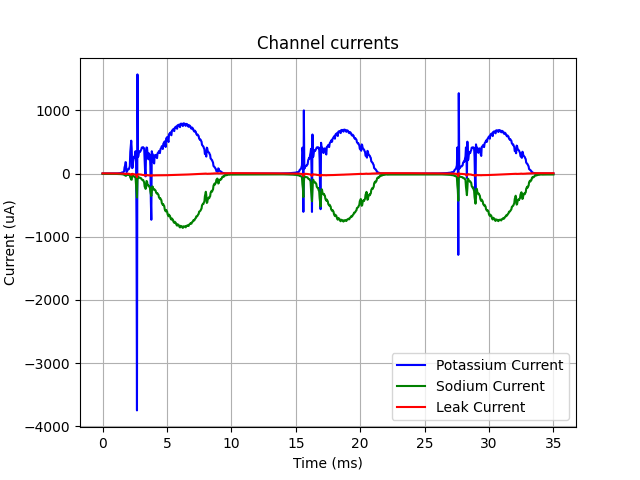
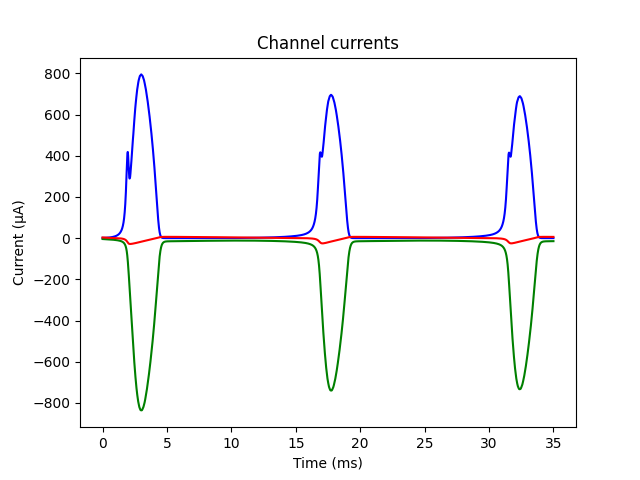
more graphs

diff --git a/HH_model.py b/HH_model.py
@@ -2,9 +2,6 @@ import numpy as np
 import matplotlib.pyplot as plt
 # from scipy.integrate import solve_ivp
 
-# i_na_trace = []       # Trace for graph purposes
-# i_k_trace = []
-# i_leak_trace = []
 class HodgkinHuxley:      # Hodgkin-Huxley model
 
     def __init__(self):        
@@ -22,7 +19,7 @@ class HodgkinHuxley:      # Hodgkin-Huxley model
         self.i_inj = 10.   
 
         self.tmax = 35.   
-        self.t  = np.linspace(0, self.tmax, 1000)
+        self.t  = np.linspace(0, self.tmax, 100000)
 
     def alpha_n(self,v):
 
@@ -31,12 +28,10 @@ class HodgkinHuxley:      # Hodgkin-Huxley model
         if nom == 0 and denom == 0 :
             return 0.1
 
-        # return (0.22 * np.exp( (v-30.)/ 26.5))      # Research paper equation
         return (nom / denom)                         # Wiki equation(original HH)
 
     def beta_n(self,v):
 
-        # return (0.22 * np.exp(- (v-30.)/ 26.5))     # Research paper equation
         return (0.125 * np.exp(- v/ 80.))            # Wiki equation(original HH)
 
     def alpha_m(self,v):
@@ -87,7 +82,6 @@ class HodgkinHuxley:      # Hodgkin-Huxley model
     #                 spikes += 1
     #         firing_rate.append(spikes/self.tmax)
 
-
     #     for i in range(len(self.var_inj)):
     #         if firing_rate[i] ==0:
     #             self.max_I.append(self.var_inj[i])          # threshold input current.
@@ -95,50 +89,45 @@ class HodgkinHuxley:      # Hodgkin-Huxley model
 
     #     return firing_rate
    
-    # def derivatives(self,t,y,inj):
+    def derivatives(self,t,y,inj):
 
-    #     der = np.zeros(4)
-    #     v = y[0]
-    #     n = y[1]
-    #     m = y[2]
-    #     h = y[3]
+        der = np.zeros(4)
+        v = y[0]
+        n = y[1]
+        m = y[2]
+        h = y[3]
 
-    #     GNa = self.g_na * m**3.0 * h    #    m and h is replaced by the markovian scheme
-    #     GK = self.g_k * n**4.0
-    #     GL = self.g_l
+        GNa = self.g_na * m**3.0 * h    #    m and h is replaced by the markovian scheme
+        GK = self.g_k * n**4.0
+        GL = self.g_l
 
-    #     i_na = GNa * (v - self.vna )
-    #     i_k = GK * (v - self.vk )
-    #     i_l = GL * (v - self.vl )
+        i_na = GNa * (v - self.vna )
+        i_k = GK * (v - self.vk )
+        i_l = GL * (v - self.vl )
 
-    #     i_na_trace.append(-i_na)
-    #     i_k_trace.append(-i_k)
-    #     i_leak_trace.append(-i_l)
+        der[0] = (inj - i_na - i_k - i_l) / self.c_m                   # dv/dt
+        der[1] = (self.alpha_n(v) * (1 - n)) - (self.beta_n(v) * n)    # dn/dt
+        der[2] = (self.alpha_m(v) * (1 - m)) - (self.beta_m(v) * m)    # dm/dt
+        der[3] = (self.alpha_h(v) * (1 - h)) - (self.beta_h(v) * h)    # dh/dt
 
-    #     der[0] = (inj - i_na - i_k - i_l) / self.c_m                   # dv/dt
-    #     der[1] = (self.alpha_n(v) * (1 - n)) - (self.beta_n(v) * n)    # dn/dt
-    #     der[2] = (self.alpha_m(v) * (1 - m)) - (self.beta_m(v) * m)    # dm/dt
-    #     der[3] = (self.alpha_h(v) * (1 - h)) - (self.beta_h(v) * h)    # dh/dt
+        return der
 
-    #     return der
-
-    # def run(self):
+    def run(self):
     
-    #     v = self.v
-    #     t = self.t
+        v = self.v
+        t = self.t
 
-    #     y = np.array([v, self.n_inf(v), self.m_inf(v), self.h_inf(v)], dtype= 'float64')
+        y = np.array([v, self.n_inf(v), self.m_inf(v), self.h_inf(v)], dtype= 'float64')
 
-    #     result = solve_ivp(self.derivatives, t_span=(0,self.tmax), y0=y, t_eval=t, args=(self.i_inj,)) 
+        result = solve_ivp(self.derivatives, t_span=(0,self.tmax), y0=y, t_eval=t, args=(self.i_inj,)) 
         
-    #     vp = result.y[0,:]    #TODO: if conversion is done properly at the beggining then *milli is not needed
-    #     n = result.y[1,:]
-    #     m = result.y[2,:]
-    #     h = result.y[3,:]
+        vp = result.y[0,:]    
+        n = result.y[1,:]
+        m = result.y[2,:]
+        h = result.y[3,:]
 
         # err = np.abs((max(vp) - 1.05400725e+02)/(1.05400725e+02) *100)
         # print("The error percentage is:", err,"%")
-
 
         # ax = plt.subplot()
         # ax.plot(t, vp)
@@ -158,7 +147,6 @@ class HodgkinHuxley:      # Hodgkin-Huxley model
         # plt.savefig('Figures/Ion channel gating variables with respect to time')
         # plt.show()
 
-        # Trajectories with limit cycles
         # ax = plt.subplot()
         # ax.plot(vp, n, 'b', label='n(t)')
         # ax.plot(vp, m, 'g', label='m(t)')
@@ -166,20 +154,20 @@ class HodgkinHuxley:      # Hodgkin-Huxley model
         # ax.set_ylabel('Gating value')
         # ax.set_xlabel('Voltage (mV)')
         # ax.set_title('Limit cycles of the gating equations')
-        # plt.legend( loc='upper left')
         # plt.savefig('Figures/Limit Cycles')
         # plt.show()
 
+        # i_na = self.g_na * m**3.0 * h * (vp - self.vna )
+        # i_k = self.g_k * n**4.0 * (vp - self.vk )
+        # i_l = self.g_l * (vp - self.vl )
+
         # ax = plt.subplot()
-        # t  = np.linspace(0, self.tmax, len(i_na_trace))
-        # ax.plot(t, i_na_trace, 'b', label='Potassium Current')
-        # ax.plot(t, i_k_trace,  'g', label='Sodium Current')
-        # ax.plot(t, i_leak_trace,  'r', label='Leak Current')
+        # ax.plot(t, -i_na, 'b', label='$I_{Na}$')
+        # ax.plot(t, -i_k,  'g', label='$I_{K}$')
+        # ax.plot(t, -i_l,  'r', label='$I_{L}$')
         # ax.set_title('Channel currents')
         # ax.set_xlabel('Time (ms)')
-        # ax.set_ylabel('Current (uA)')
-        # plt.grid()
-        # plt.legend()
+        # ax.set_ylabel('Current (μA)')
         # plt.savefig('Figures/Channel currents')
         # plt.show()
 
